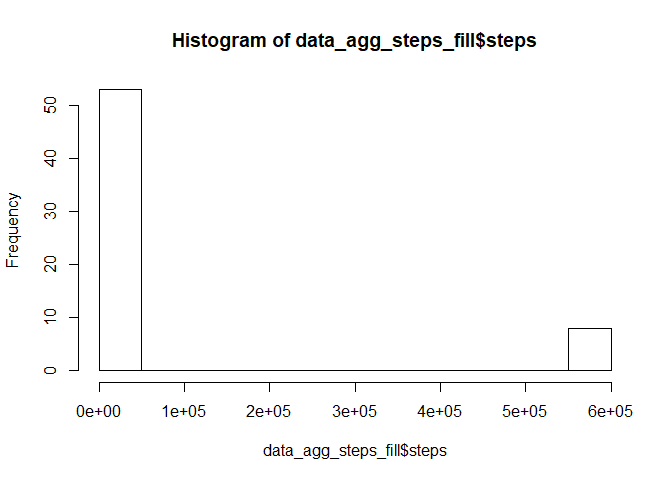
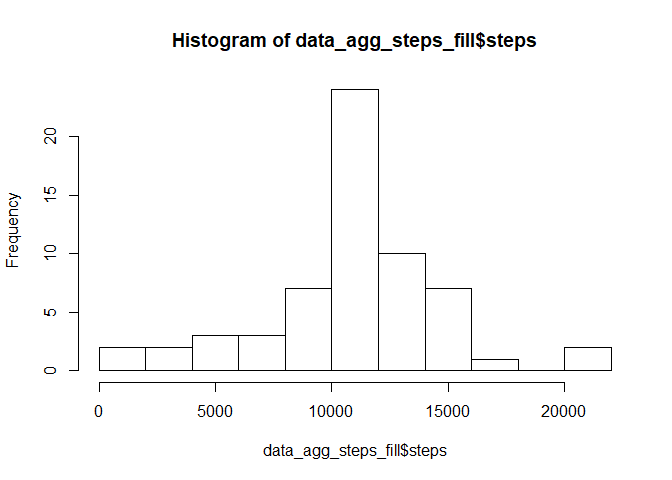
Correction to calculating average daily activity
Didn't average. Only summed.

diff --git a/PA1_template.html b/PA1_template.html
@@ -155,9 +155,9 @@ print(paste(meansteps, mediansteps))</code></pre>
 </div>
 <div id="what-is-the-average-daily-activity-pattern" class="section level2">
 <h2>What is the average daily activity pattern?</h2>
-<pre class="r"><code>data_agg_interval &lt;- aggregate(steps ~ interval, data, sum)
+<pre class="r"><code>data_agg_interval &lt;- aggregate(steps ~ interval, data, mean)
 plotline &lt;- plot(data_agg_interval, type='l')</code></pre>
[2 lines of base64/hex data omitted]
 <pre class="r"><code>maxsteps_interval &lt;- data_agg_interval[which(data_agg_interval$steps == max(data_agg_interval$steps)), 1]
 print(maxsteps_interval)</code></pre>
 <pre><code>## [1] 835</code></pre>
@@ -173,22 +173,22 @@ print(num_na)</code></pre>
      data[(is.na(data)) &amp; (data$interval ==  data_agg_interval$interval[[ii]]),]$steps &lt;- data_agg_interval$steps[[ii]]
 }
 head(data)</code></pre>
-<pre><code>##   steps       date interval
-## 1    91 2012-10-01        0
-## 2    18 2012-10-01        5
-## 3     7 2012-10-01       10
-## 4     8 2012-10-01       15
-## 5     4 2012-10-01       20
-## 6   111 2012-10-01       25</code></pre>
+<pre><code>##       steps       date interval
+## 1 1.7169811 2012-10-01        0
+## 2 0.3396226 2012-10-01        5
+## 3 0.1320755 2012-10-01       10
+## 4 0.1509434 2012-10-01       15
+## 5 0.0754717 2012-10-01       20
+## 6 2.0943396 2012-10-01       25</code></pre>
 <pre class="r"><code>data_agg_steps_fill &lt;- aggregate(steps ~ date, data, sum)
 histo_fill &lt;- hist(data_agg_steps_fill$steps, breaks=10)</code></pre>
[2 lines of base64/hex data omitted]
 <pre class="r"><code>meansteps_fill &lt;- mean(data_agg_steps_fill$steps)
 mediansteps_fill &lt;- median(data_agg_steps_fill$steps)
 print(paste(meansteps_fill, mediansteps_fill))</code></pre>
-<pre><code>## [1] &quot;84188.0655737705 11458&quot;</code></pre>
-<p>The mean number of steps taken per day from filled in data is 84188.07. The median number of steps taken per day from filled in data is 11458.</p>
-<p>The mean number of steps increases almost 8 times from 10766.19 to 84188.07. The median number of steps increases around 7% from 10765 to 11458. The mean is significantly more affected than the median by inputting the missing data by this methodology.</p>
+<pre><code>## [1] &quot;10766.1886792453 10766.1886792453&quot;</code></pre>
+<p>The mean number of steps taken per day from filled in data is 10766.19. The median number of steps taken per day from filled in data is 10766.19.</p>
+<p>The mean remains the same from earlier but the median changes to match the mean with this method of filling missing values.</p>
 </div>
 <div id="are-there-differences-in-activity-patterns-between-weekdays-and-weekends" class="section level2">
 <h2>Are there differences in activity patterns between weekdays and weekends?</h2>
@@ -197,9 +197,9 @@ data[['weekday']] &lt;- ifelse(data$day == 'Saturday' | data$day == 'Sunday', 1,
 data_avg_steps_weekday &lt;- aggregate(steps ~ interval, data[data$weekday==0,], sum)
 data_avg_steps_weekend &lt;- aggregate(steps ~ interval, data[data$weekday==1,], sum)
 par(mfrow=c(2,1))
-plot(data_avg_steps_weekday, type='l', main='Weekday', ylim=c(-500, 80000))
-plot(data_avg_steps_weekend, type='l', main='Weekend', ylim=c(-500, 80000))</code></pre>
[1 lines of base64/hex data omitted]
+plot(data_avg_steps_weekday, type='l', main='Weekday', ylim=c(-500, 11500))
+plot(data_avg_steps_weekend, type='l', main='Weekend', ylim=c(-500, 11500))</code></pre>
[1 lines of base64/hex data omitted]
 </div>
 
 

diff --git a/PA1_template.md b/PA1_template.md
@@ -61,7 +61,7 @@ The mean number of steps taken per day is 10766.19. The median number of steps t
 ## What is the average daily activity pattern?
 
 ```r
-data_agg_interval <- aggregate(steps ~ interval, data, sum)
+data_agg_interval <- aggregate(steps ~ interval, data, mean)
 plotline <- plot(data_agg_interval, type='l')
 ```
 
@@ -97,13 +97,13 @@ head(data)
 ```
 
 ```
-##   steps       date interval
-## 1    91 2012-10-01        0
-## 2    18 2012-10-01        5
-## 3     7 2012-10-01       10
-## 4     8 2012-10-01       15
-## 5     4 2012-10-01       20
-## 6   111 2012-10-01       25
+##       steps       date interval
+## 1 1.7169811 2012-10-01        0
+## 2 0.3396226 2012-10-01        5
+## 3 0.1320755 2012-10-01       10
+## 4 0.1509434 2012-10-01       15
+## 5 0.0754717 2012-10-01       20
+## 6 2.0943396 2012-10-01       25
 ```
 
 ```r
@@ -120,12 +120,12 @@ print(paste(meansteps_fill, mediansteps_fill))
 ```
 
 ```
-## [1] "84188.0655737705 11458"
+## [1] "10766.1886792453 10766.1886792453"
 ```
 
-The mean number of steps taken per day from filled in data is 84188.07. The median number of steps taken per day from filled in data is 11458. 
+The mean number of steps taken per day from filled in data is 10766.19. The median number of steps taken per day from filled in data is 10766.19. 
 
-The mean number of steps increases almost 8 times from 10766.19 to 84188.07. The median number of steps increases around 7% from 10765 to 11458. The mean is significantly more affected than the median by inputting the missing data by this methodology.
+The mean remains the same from earlier but the median changes to match the mean with this method of filling missing values.
 
 ## Are there differences in activity patterns between weekdays and weekends?
 
@@ -135,8 +135,8 @@ data[['weekday']] <- ifelse(data$day == 'Saturday' | data$day == 'Sunday', 1, 0)
 data_avg_steps_weekday <- aggregate(steps ~ interval, data[data$weekday==0,], sum)
 data_avg_steps_weekend <- aggregate(steps ~ interval, data[data$weekday==1,], sum)
 par(mfrow=c(2,1))
-plot(data_avg_steps_weekday, type='l', main='Weekday', ylim=c(-500, 80000))
-plot(data_avg_steps_weekend, type='l', main='Weekend', ylim=c(-500, 80000))
+plot(data_avg_steps_weekday, type='l', main='Weekday', ylim=c(-500, 11500))
+plot(data_avg_steps_weekend, type='l', main='Weekend', ylim=c(-500, 11500))
 ```
 
 ![](PA1_template_files/figure-html/unnamed-chunk-6-1.png)<!-- -->
